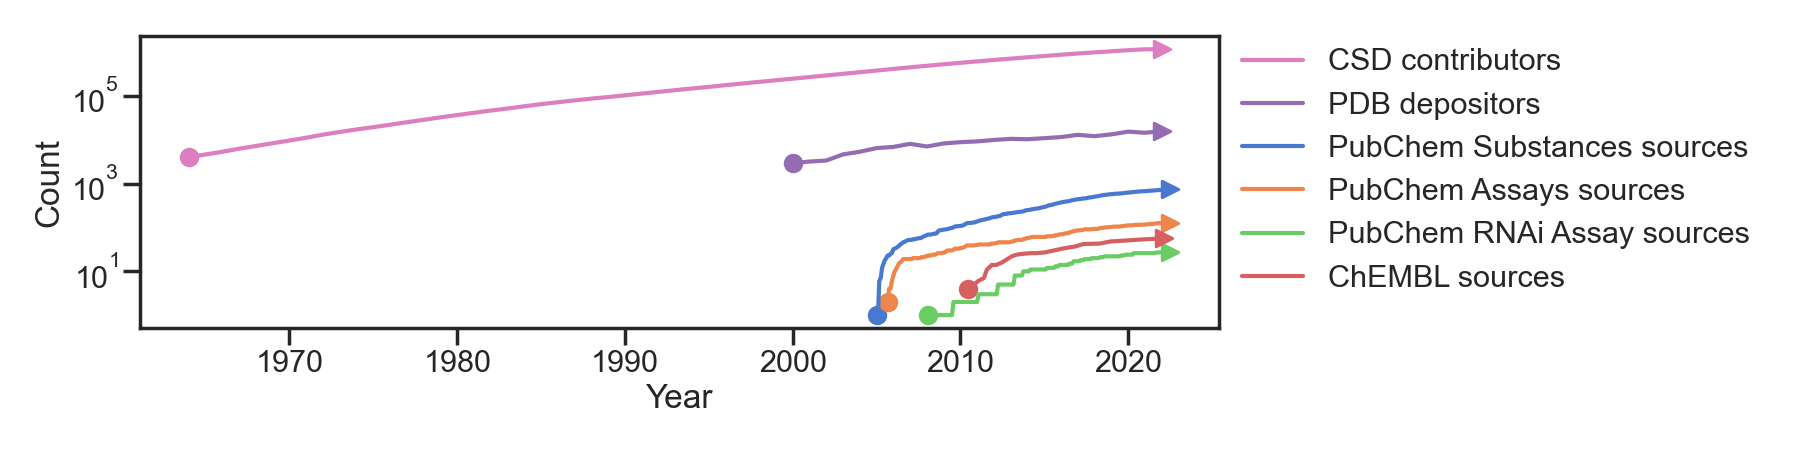
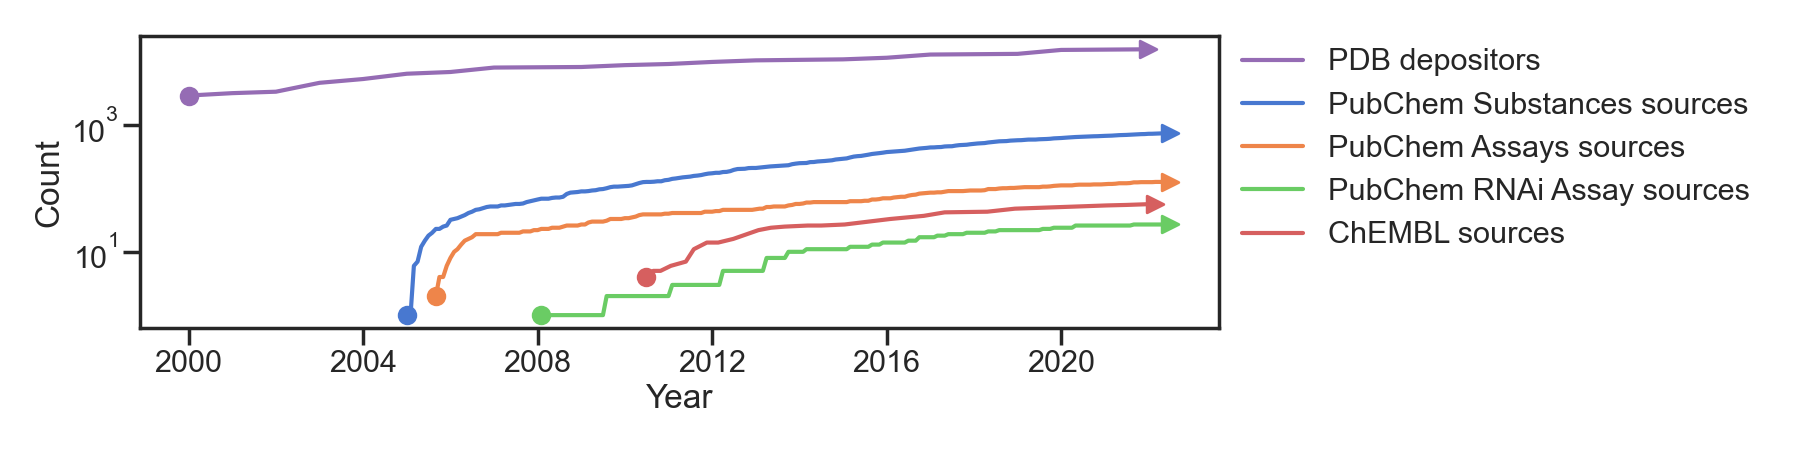
Preparing repo for publication

diff --git a/plot-contributors.py b/plot-contributors.py
@@ -122,26 +122,8 @@ ax.set_yticklabels(labels=[f"{ytick:.2e}"])
 fig.tight_layout()
 fig.savefig("pdb-depositors.png")
 
-## CSD
-# load the CSD data
-csd_dates, csd_sources, csd_ave_n_atoms_per_structure = load_csd_data(filename="./data/csd-structures.csv")
-
-# plot the CSD data
-fig, ax = plt.subplots(1, 1, figsize=(15,5))
-ax.plot(csd_dates, np.cumsum(csd_sources), color=palette2[6], label="CSD contributors")
-ax.legend(frameon=False)
-ytick = np.cumsum(csd_sources)[-1]
-ax.set(xticks=[csd_dates[i] for i in [0, -1]], yticks=[ytick])
-ax.set_xticklabels(labels=[csd_dates[i].astype(object).year for i in [0, -1]], rotation=45, ha="right", rotation_mode="anchor")
-ax.set_yticklabels(labels=[f"{ytick:.2e}"])
-fig.tight_layout()
-fig.savefig("csd-contributors.png")
-
 # plot all the data together
 fig, ax = plt.subplots(1, 1, figsize=(18, 4.5))
-ax.plot(csd_dates, np.cumsum(csd_sources), color=palette2[6], label="CSD contributors")
-ax.scatter(csd_dates[0], np.cumsum(csd_sources)[0], color=palette2[6], marker="o")
-ax.scatter(csd_dates[-1], np.cumsum(csd_sources)[-1], color=palette2[6], marker=">")
 ax.plot(pdb_dates, pdb_depositors, color=palette2[4], label="PDB depositors")
 ax.scatter(pdb_dates[0], pdb_depositors[0], color=palette2[4], marker="o")
 ax.scatter(pdb_dates[-1], pdb_depositors[-1], color=palette2[4], marker=">")

diff --git a/README.md b/README.md
@@ -1,25 +1,53 @@
 # data-sharing-perspective
-Data and scripts to generate figures for the data-sharing perspective.
+Data and scripts to generate figures for the perspective "Data sharing in chemistry: lessons learned and a case for mandating structured reaction data" by R. Mercado, S. Kearnes, and C. Coley.
 
 ## Environment
 Begin by creating a conda environment in which to run the following scripts:
 
 ```
 conda create -n data-sharing-perspective seaborn -c anaconda
-conda activate data-sharing-perspectiv`
+conda activate data-sharing-perspective`
 ```
 
-## Scripts for plotting (1) reaction entries and (2) contributors/sources
+## Generating plots
+To create the plot for figures 1 and 2 in the manuscript, run:
 ```
 python plot-entries.py
 python plot-contributors.py
 ```
 
-## Illustrator files
-Files used for making the figures shown in the paper are available in `illustrator/`. Made using Adobe Illustrator.
+The first script will plot data entries over time and the second script will plot contributors/sources over time, for the following databases:
+* CSD
+* PDB
+* PubChem
+* ChEMBL
 
-## Data sources for data in PubChem (cumulative)
+## Illustrator files
+Files used for making the figures shown in the paper are available in [illustrator/](./illustrator/). Made using Adobe Illustrator.
+
+## Raw data
+The raw data for the above plots is available in [data/](./data/). For individual sources, see below:
+
+### CSD
+Structures available in the CSD (cumulative):
+![CSD structures](./csd-structures.png)
+Data collected from:
+* [CCDC documentation](https://www.ccdc.cam.ac.uk/media/Documentation/9DA399C5-90F8-478E-9C41-EAFD1868ED31/9da399c590f8478e9c41eafd1868ed31.pdf)
+
+### PDB
+Depositors for data in the PDB (cumulative):
+![PDB depositors](./pdb-depositors.png)
+Entries available in the PDB (cumulative)
+![PDB entries](./pdb-entries.png)
+Data collected from:
+* [PDB Annual Depositors](https://www.wwpdb.org/stats/deposition)
+
+### PubChem
+Sources for data in PubChem (cumulative):
 ![PubChem sources](./pubchem-sources.png)
+Data entries in PubChem (cumulative):
+![PubChem BioAssays](./pubchem-count.png)
+Data collected from:
 * PubChem [publications page](https://pubchem.ncbi.nlm.nih.gov/docs/publications) where I got the data count for PubChem Compounds, BioAssays, and Substances:
   - [2005](https://www.genome.gov/15014443/2005-release-nih-nationwide-network-of-molecular-libraries-screening-centers)
   - [2006](http://triggered.edina.clockss.org/ServeContent?url=http%3A%2F%2Fmolinterv.aspetjournals.org%2Fcontent%2F6%2F5%2F240.full.pdf%2Bhtml)
@@ -31,33 +59,17 @@ Files used for making the figures shown in the paper are available in `illustrat
   - [2013 & 2016](https://academic.oup.com/nar/article/45/D1/D955/2605812?login=false)
   - [2018](https://academic.oup.com/nar/article/47/D1/D1102/5146201?login=false)
   - [2021](https://academic.oup.com/nar/article/49/D1/D1388/5957164?login=false)
-  - [2022](https://pubchem.ncbi.nlm.nih.gov/docs/statistics) (took numbers on Dec 25, 2022)
+  - [2022](https://pubchem.ncbi.nlm.nih.gov/docs/statistics)*
 
-## Documents (publications) from which data is sourced in ChEMBL (cumulative)
-![ChEMBL documents](./chembl-documents.png)
-* Add data on non-publication sources (see email)
-* Breakdown of ALL data sources in the release notes [here](https://chembl.gitbook.io/chembl-interface-documentation/downloads)
-* See email from Fiona Hunter for source information
+  * Accessed Dec 25, 2022.
 
-## Entries available in the PDB (cumulative)
-![PDB entries](./pdb-entries.png)
-* [PDB Annual Depositors](https://www.wwpdb.org/stats/deposition)
+### ChEMBL
+Sources (documents) for data in ChEMBL (cumulative):
+![ChEMBL documents](./chembl-sources.png)
+Compound entries in ChEMBL (cumulative):
+![ChEMBL compounds](./chembl-compounds.png)
+Data collected from:
+* Breakdown of all data sources in the release notes [here](https://chembl.gitbook.io/chembl-interface-documentation/downloads)
 
-## Structures available in the CSD (cumulative)
-![CSD structures](./csd-structures.png)
-* [Old link](https://www.ccdc.cam.ac.uk/support-and-resources/ccdcresources/6297f7b0ac4d4d5ca48a7cbd463159fc.pdf))
-* [New link since CCDC website update](https://www.ccdc.cam.ac.uk/media/Documentation/9DA399C5-90F8-478E-9C41-EAFD1868ED31/9da399c590f8478e9c41eafd1868ed31.pdf)
-
-## Links to icons used in data collection schematic
-Can all be used for free with attribution:
-* https://www.flaticon.com/free-icon/data-science_9850843
-* https://www.flaticon.com/free-icon/laptop_9006060?term=translator&page=1&position=94&origin=search&related_id=9006060
-* https://www.flaticon.com/free-icon/aggregation_9850779
-* https://www.flaticon.com/free-icon/big-data_9872410
-* https://www.flaticon.com/free-icon/cloud-database_8637228
-* https://www.flaticon.com/free-icon/document_2140758?related_id=2140758
-* https://www.flaticon.com/free-icon/loupe_751463?term=magnifying+glass&page=1&position=1&origin=search&related_id=751463
-* https://www.flaticon.com/free-icon/data-science_7760592
-* https://www.flaticon.com/free-icon/unstructured-data_9850860?related_id=9850860&origin=search
-* https://www.flaticon.com/free-icon/robot_9151271?related_id=9151271
-* https://www.flaticon.com/free-icon/laboratory_250181?term=scientist&page=1&position=5&origin=search&related_id=250181
+### Links to icons used in data collection schematic
+All Flaticon images linked used for free with attribution: [1](https://www.flaticon.com/free-icon/data-science_9850843), [2](https://www.flaticon.com/free-icon/laptop_9006060?term=translator&page=1&position=94&origin=search&related_id=9006060), [3](https://www.flaticon.com/free-icon/aggregation_9850779), [4](https://www.flaticon.com/free-icon/big-data_9872410), [5](https://www.flaticon.com/free-icon/cloud-database_8637228), [6](https://www.flaticon.com/free-icon/document_2140758?related_id=2140758), [7](https://www.flaticon.com/free-icon/loupe_751463?term=magnifying+glass&page=1&position=1&origin=search&related_id=751463), [8](https://www.flaticon.com/free-icon/data-science_7760592), [8](https://www.flaticon.com/free-icon/unstructured-data_9850860?related_id=9850860&origin=search), [9](https://www.flaticon.com/free-icon/robot_9151271?related_id=9151271), [10](https://www.flaticon.com/free-icon/laboratory_250181?term=scientist&page=1&position=5&origin=search&related_id=250181)
